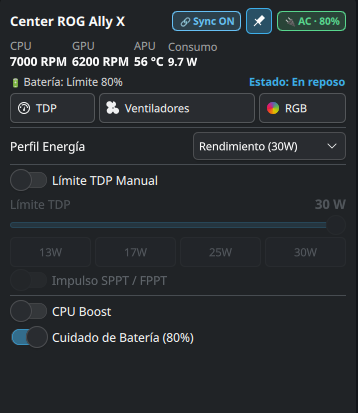
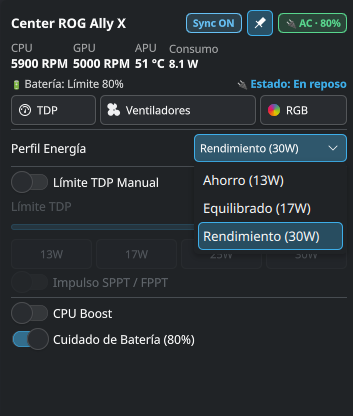
Docs: agregar capturas de pantalla y tabla de compatibilidad

diff --git a/README.md b/README.md
@@ -50,7 +50,7 @@ Inspirado en la comodidad de *Armoury Crate* y *Command Center*, este plasmoid p
 
 | Ventiladores Único | Curva Todos Juntos | RGB Color Fijo | RGB Sensores |
 | :---: | :---: | :---: | :---: |
-| ![Game Venti Único](docs/capturas/game-venti-perfiles-unico.png) | ![Game Curva Todo](docs/capturas/game-venti%20perso-todo.png) | ![Game RGB Fijo](docs/capturas/game-rgb-fijo.png) | ![Game RGB Sensor](docs/capturas/game-rgb-sensor.png) |
+| ![Game Venti Único](docs/capturas/game-venti-perfiles-unico.png) | ![Game Curva Todo](docs/capturas/game-venti-perso-todo.png) | ![Game RGB Fijo](docs/capturas/game-rgb-fijo.png) | ![Game RGB Sensor](docs/capturas/game-rgb-sensor.png) |
 
 </details>
 
